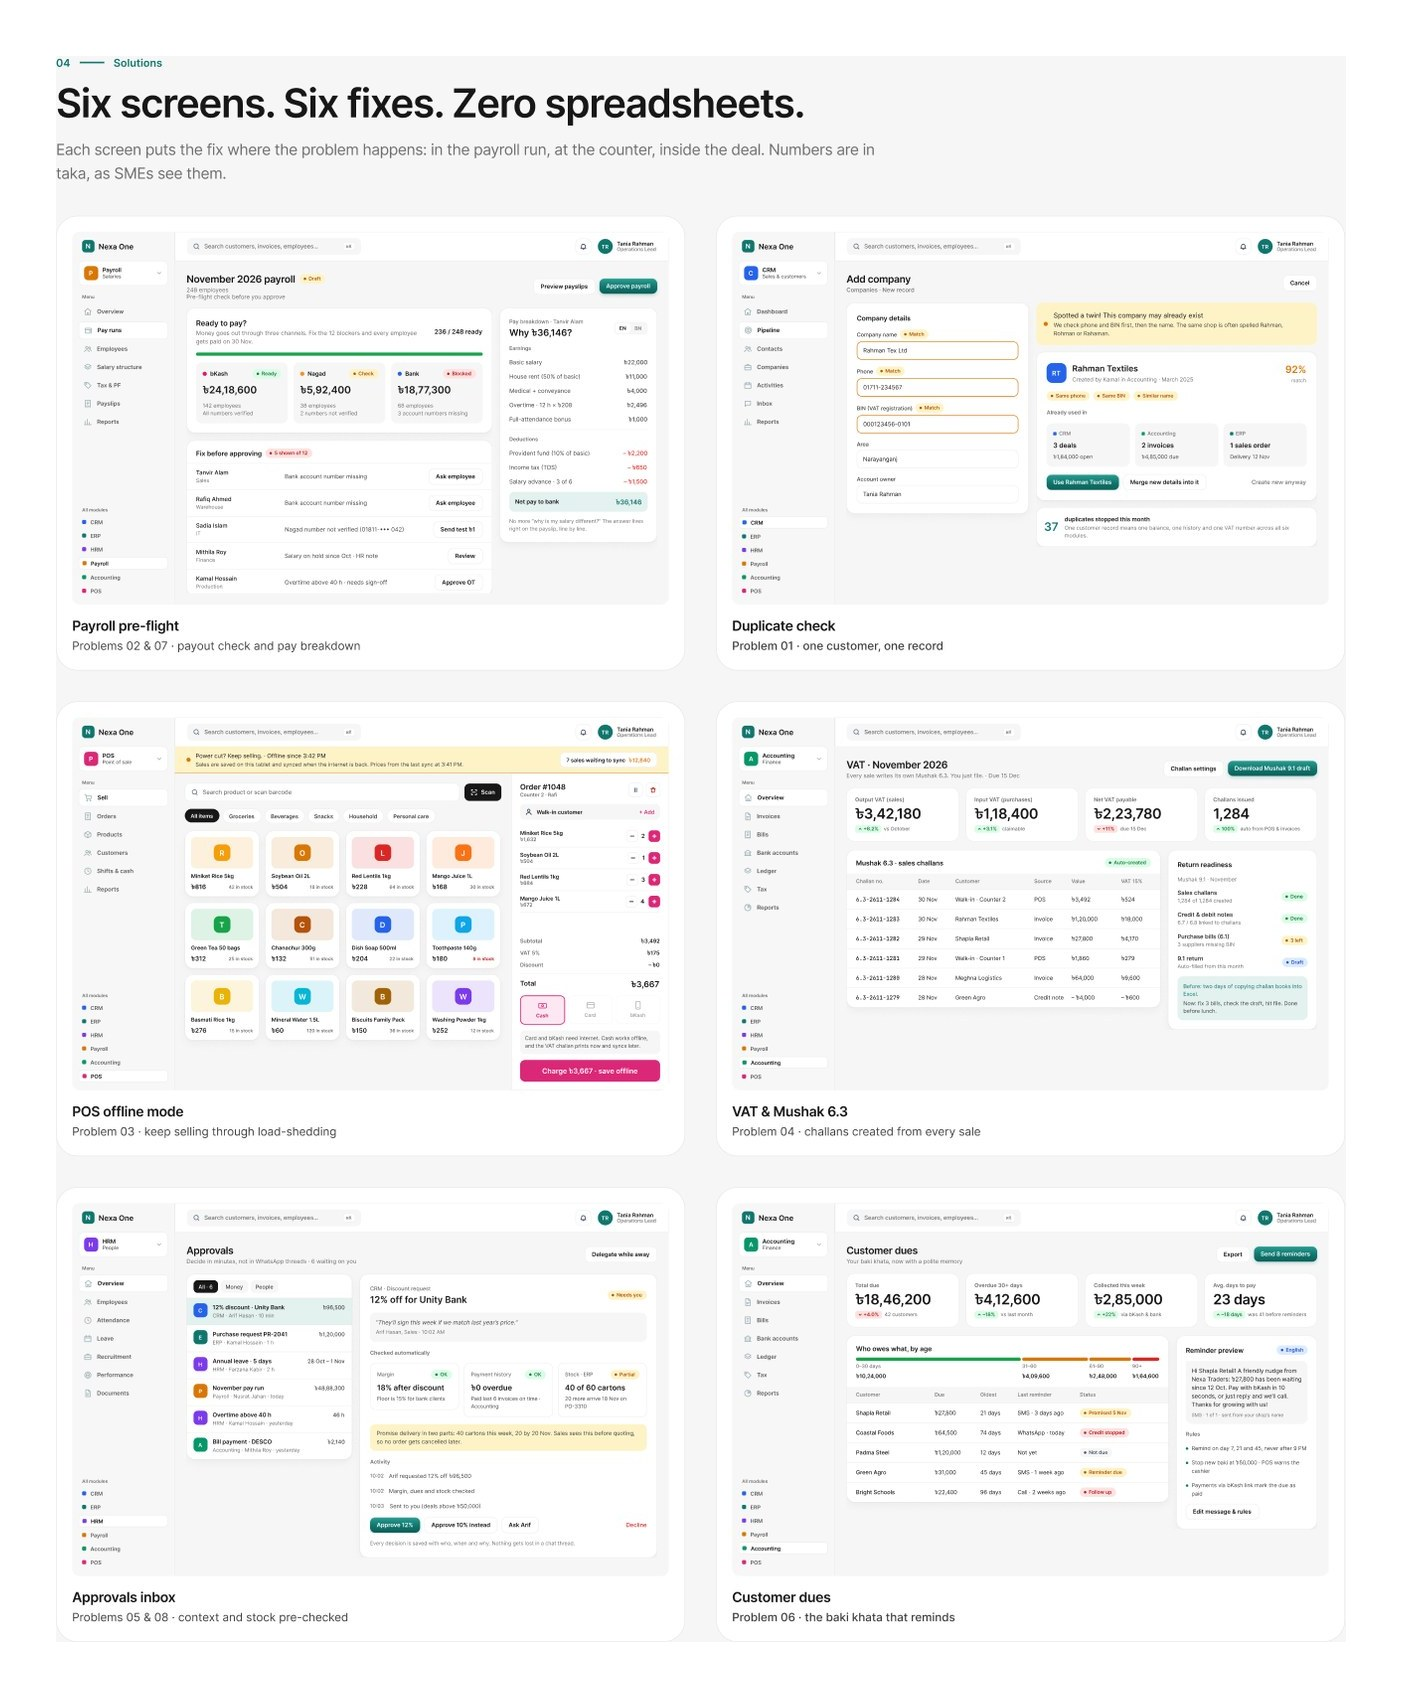
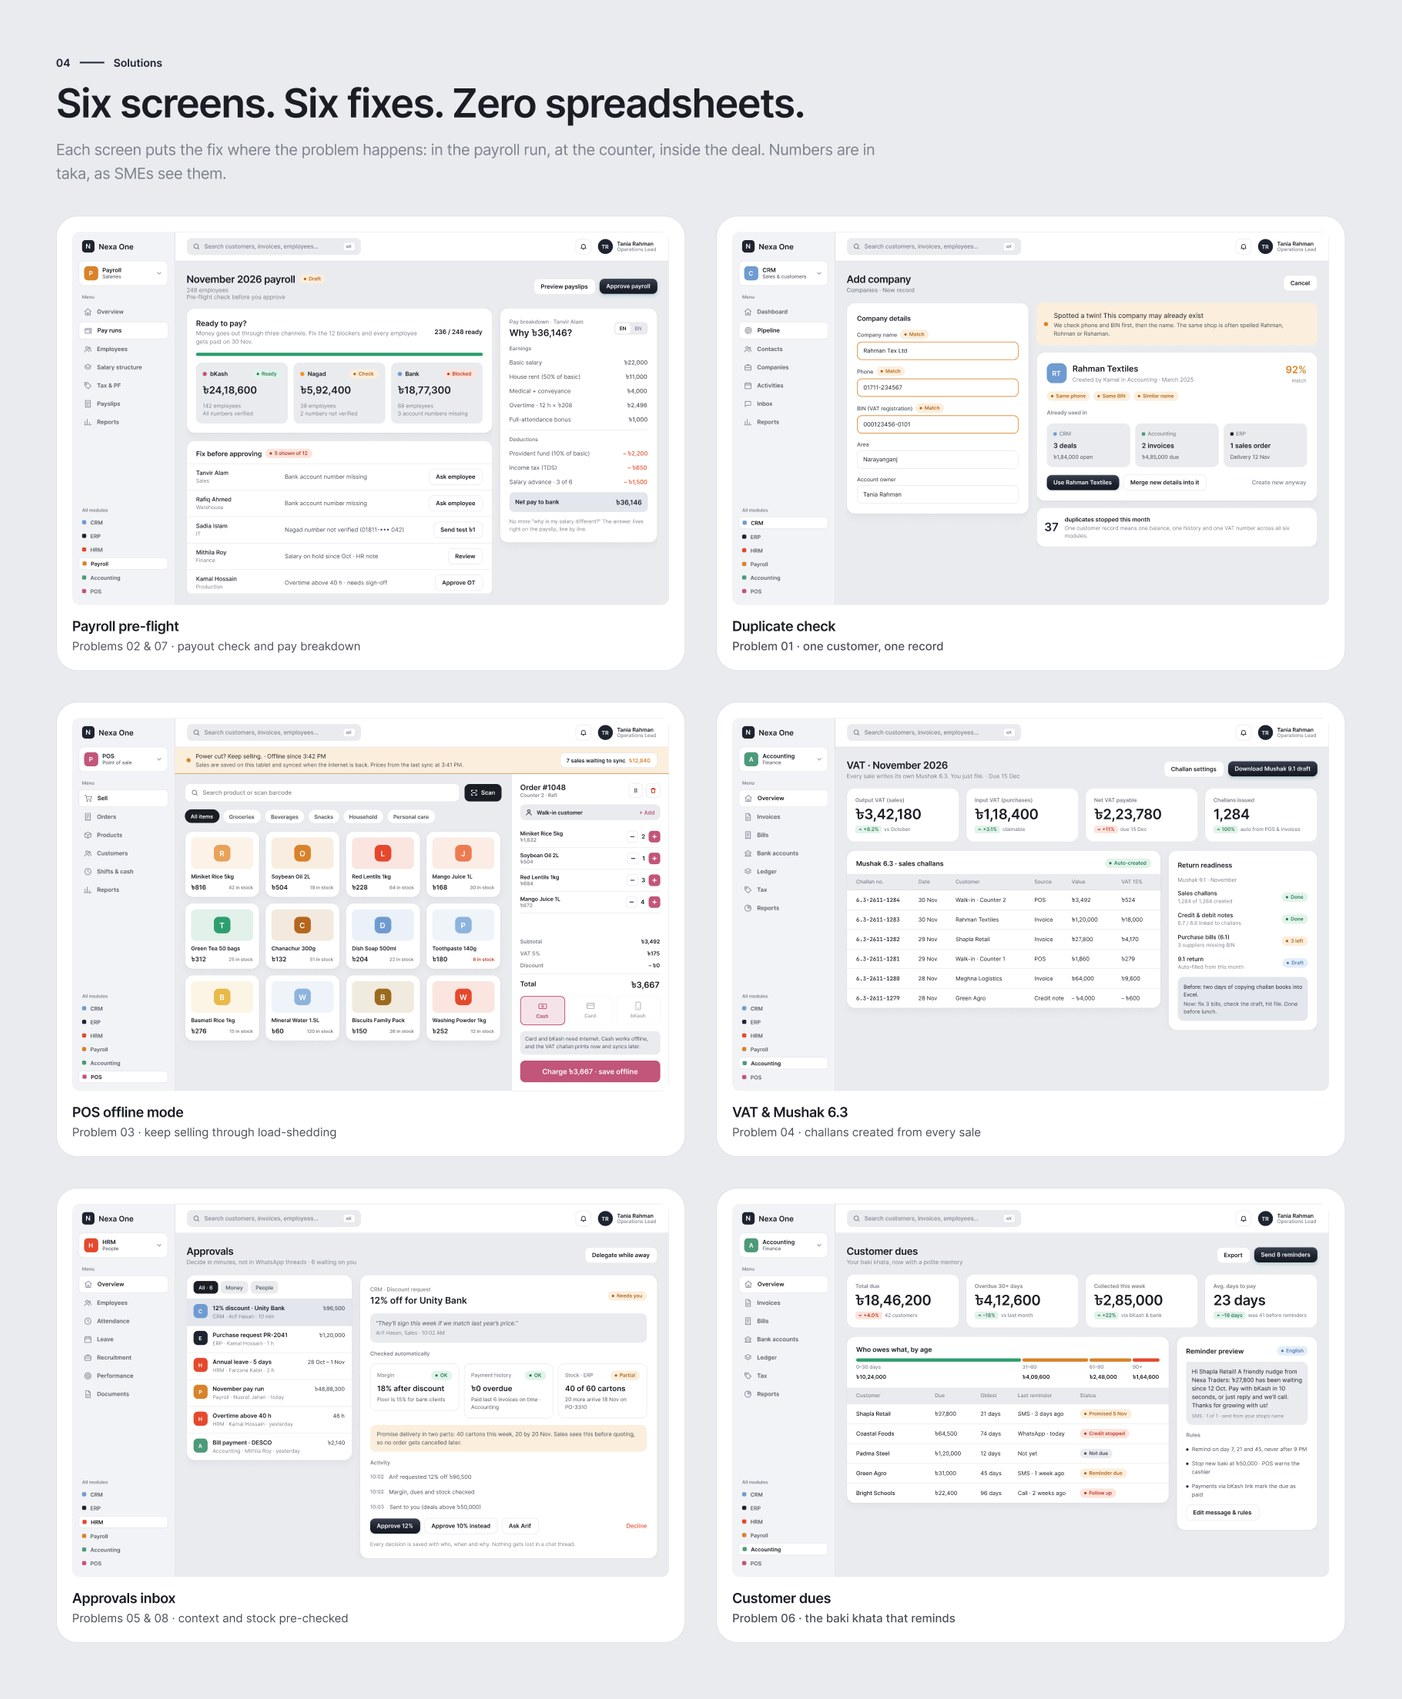
Nexa One: cool-gray / ink / orange-red / steel-blue theme across case study and prototype
Claude-Session: https://claude.ai/code/session_01M2zW5Ljrh9KqFAeEV7Kt6D

diff --git a/index.html b/index.html
@@ -1294,7 +1294,7 @@ body.v10 .ct10-mail .b10.accent{background:var(--gloss)!important;color:#fff!imp
 /* ===== v22: per-case colour themes (Marcel base + Rico05 clarity) ===== */
 #case-moodbrew{--case:#14523A;--case-2:#C8A27A;--case-soft:#EAF2EE}
 #case-shuddhi{--case:#7A2E3A;--case-2:#D9A5A0;--case-soft:#F7EDEE}
-#case-nexa{--case:#0F766E;--case-2:#7C4DFF;--case-soft:#E5F2F0}
+#case-nexa{--case:#1E2330;--case-2:#E5482D;--case-soft:#E9EBEF}
 #case-shonchoy{--case:#4A41C8;--case-2:#F26A3D;--case-soft:#EEEDFB}
 #case-rovea{--case:#142C3D;--case-2:#D5F36A;--case-soft:#E4F2F6}
 body.v10 .case{background:#F6F6F6}
@@ -1323,7 +1323,7 @@ body.v10 .next-case a:hover{color:#fff}
 /* home cards: tinted image wells per case */
 body.v10 .c10[href="#case-moodbrew"] .c10-img{background:#EAF2EE}
 body.v10 .c10[href="#case-shuddhi"] .c10-img{background:#F7EDEE}
-body.v10 .c10[href="#case-nexa"] .c10-img{background:#E5F2F0}
+body.v10 .c10[href="#case-nexa"] .c10-img{background:#E9EBEF}
 body.v10 .c10[href="#case-shonchoy"] .c10-img{background:#EEEDFB}
 body.v10 .c10[href="#case-rovea"] .c10-img{background:#E4F2F6}
 @media (max-width:760px){body.v10 .case .facts{grid-template-columns:1fr 1fr}body.v10 .case .facts>div:nth-child(3){border-left:0}body.v10 .case .facts>div:nth-child(n+3){border-top:1px solid var(--line)}body.v10 .case-hero{border-radius:20px}body.v10 .next-case{flex-direction:column;align-items:flex-start}}
@@ -1352,6 +1352,9 @@ body.v10 .pv-scrolltip{color:var(--case)}
 .pv-theme{display:inline-flex;gap:4px;padding:4px;border-radius:999px;background:#fff;border:1px solid #E9E9E9;margin:0 0 14px}
 body.v10 .pv-theme button{border:0;border-radius:999px;padding:7px 14px;font:600 13px var(--body);cursor:pointer;background:transparent;color:#5F5F5F}
 body.v10 .pv-theme button[aria-pressed="true"]{background:var(--case);color:#fff}
+body.v10 .pv-desktop .pv-device{background:#fff;box-shadow:0 0 0 1px #DFE2E7,0 30px 60px -28px rgba(16,16,16,.3)}
+body.v10 .pv-chrome{background:#F3F4F7;border-bottom:1px solid #E3E5EA}
+body.v10 .pv-chrome span{background:#fff;color:#7C818B;border:1px solid #E3E5EA}
 body.v10 .next-case{background:var(--case,#151515);border-color:transparent}
 body.v10 .next-case .tag{color:rgba(255,255,255,.7)!important}
 body.v10 .next-case a{color:#fff}
